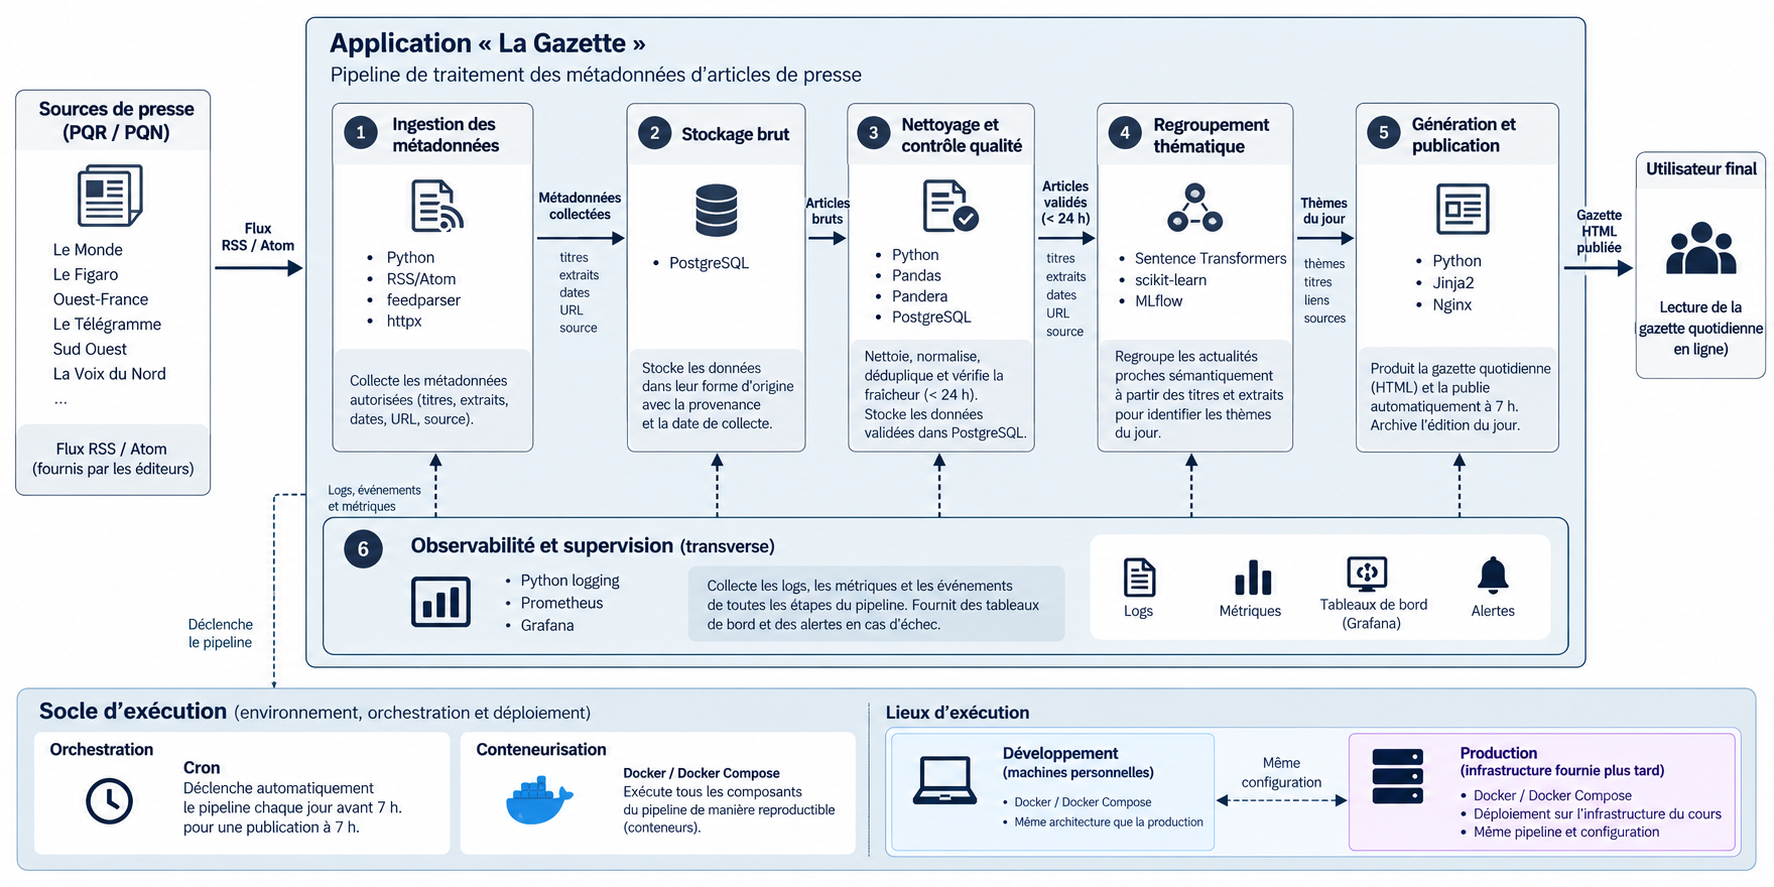
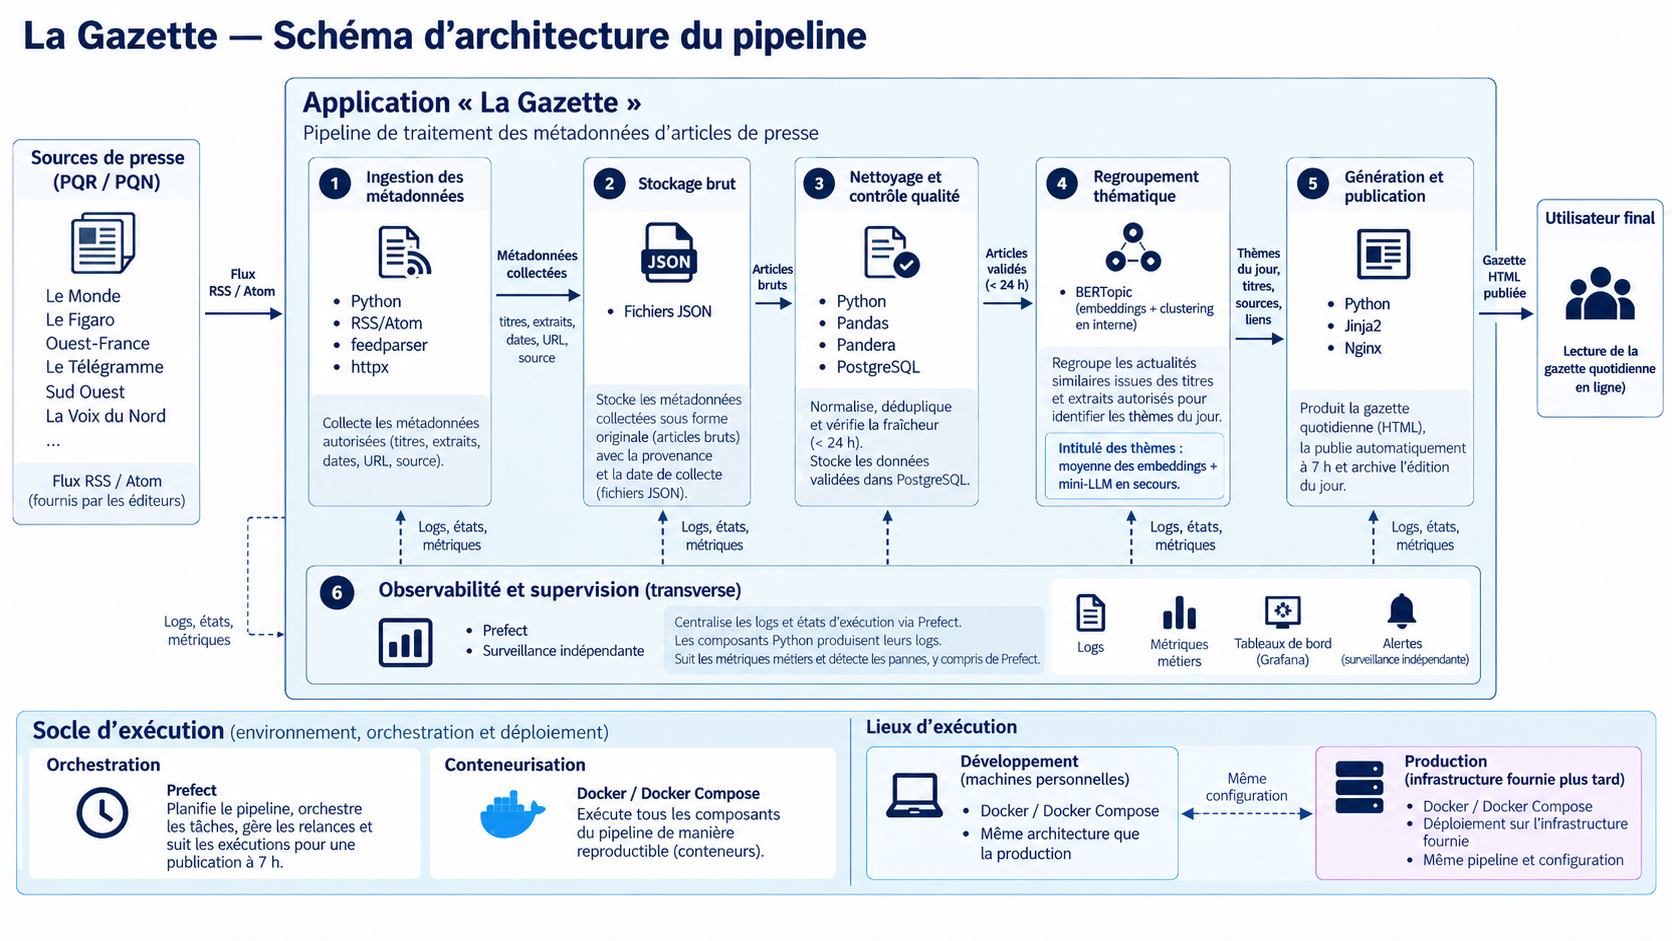
VF cadrage

diff --git a/docs/cadrage.md b/docs/cadrage.md
@@ -4,13 +4,15 @@ Notre architecture privilégie des technologies gratuites, reproductibles et mai
 
 | Domaine | Solution retenue | Justification et alternative |
 |---|---|---|
-| **Collecte** | Python, RSS/Atom, feedparser, httpx | Les flux RSS/Atom permettent de récupérer des métadonnées structurées sans collecter les articles intégraux, sous réserve des conditions des éditeurs. Les API officielles constituent une alternative, mais leur disponibilité et leurs restrictions varient selon les sources. |
-| **Orchestration** | Cron | Solution légère et suffisante pour planifier un pipeline quotidien. Prefect offre une meilleure gestion des dépendances, relances et états d'exécution, mais introduit une complexité supplémentaire. |
-| **Stockage** | PostgreSQL | Base relationnelle permettant de séparer les données brutes et nettoyées, de garantir leur intégrité et de gérer les accès concurrents. SQLite est plus simple à déployer, mais moins adapté à un stockage centralisé avec plusieurs services. |
-| **Regroupement thématique** | Sentence Transformers + scikit-learn | Les embeddings sémantiques associés à un algorithme de clustering permettent de rapprocher des actualités formulées différemment. TF-IDF associé à un clustering est plus léger et plus interprétable, mais moins performant pour certaines similarités sémantiques. |
-| **Supervision** | Logs Python, puis Prometheus et Grafana | Les logs facilitent le diagnostic. Prometheus et Grafana permettent de suivre les métriques, visualiser les exécutions et mettre en place des alertes. Une supervision limitée aux logs et scripts de vérification serait plus simple, mais moins complète. |
-| **Exécution et infrastructure** | Docker et Docker Compose | Permettent une exécution reproductible des services sur les machines de développement. Kubernetes apporte une orchestration plus avancée, mais serait disproportionné à ce stade. La nécessité d'un outil IaC comme OpenTofu sera étudiée selon l'infrastructure fournie. |
+| **Collecte** | Python, RSS/Atom, feedparser, httpx | Les flux RSS/Atom permettent de récupérer les métadonnées autorisées sans collecter les articles intégraux. Les API officielles constituent une alternative, mais leur disponibilité et leurs conditions d'accès varient selon les éditeurs. |
+| **Orchestration** | Prefect | Permet de planifier les exécutions quotidiennes, gérer les dépendances, les erreurs et les relances, tout en centralisant le suivi des tâches. Cron est plus léger, mais nécessite des développements supplémentaires pour obtenir un suivi équivalent. |
+| **Stockage** | JSON (brut) + PostgreSQL (propre) | Les fichiers JSON conservent les métadonnées collectées et leur provenance avant transformation. PostgreSQL stocke les articles validés, les thèmes et leurs associations, avec des contraintes d'intégrité. Une solution entièrement PostgreSQL était envisageable, mais moins simple pour archiver les données brutes dans leur structure d'origine. |
+| **Regroupement thématique** | BERTopic | Regroupe les articles à partir d'embeddings sémantiques et d'algorithmes de clustering intégrés. L'approche Sentence Transformers + scikit-learn permet davantage de personnalisation, mais nécessite d'assembler et de maintenir plusieurs composants. |
+| **Intitulés des thèmes** | Moyenne des embeddings, puis mini-LLM si nécessaire | La moyenne des vecteurs d'un groupe permet de sélectionner le titre existant le plus représentatif. Si le résultat est insuffisant, un petit LLM pourra générer un intitulé à partir des titres autorisés uniquement, sans exploiter le texte intégral des articles. |
+| **Supervision** | Prefect + surveillance indépendante | Prefect centralise les états d'exécution et les logs, et permet de suivre les métriques métiers produites par le pipeline (articles collectés, rejetés, thèmes générés, etc.). Une surveillance indépendante détectera les pannes de l'orchestrateur. Prometheus et Grafana constituent une alternative plus complète pour les métriques et tableaux de bord, mais nécessitent des services supplémentaires. |
+| **Exécution et infrastructure** | Docker et Docker Compose | Permettent une exécution reproductible des services sur les machines de développement. Kubernetes offre une orchestration de conteneurs plus avancée, mais serait disproportionné à ce stade. Un outil IaC comme OpenTofu sera étudié selon l'infrastructure de production fournie. |
 
-**Outils complémentaires prévus :** Pandas et Pandera pour le nettoyage et les contrôles qualité, MLflow pour le suivi des expérimentations ML, Jinja2 pour la génération HTML, Nginx pour la publication, pytest pour les tests et GitHub Actions pour l'intégration continue.
+**Outils complémentaires prévus :** Pandas et Pandera pour le nettoyage et les contrôles qualité, Jinja2 pour la génération HTML, Nginx pour la publication, pytest pour les tests et GitHub Actions pour l'intégration continue.
 
-Ces choix constituent une architecture prévisionnelle qui sera validée progressivement par les expérimentations et l'intégration des composants. Le pipeline devra notamment vérifier la fraîcheur des articles (moins de 24 h) et garantir une publication quotidienne à 7 h.
+Ces choix constituent une architecture prévisionnelle qui sera validée progressivement par les expérimentations et l'intégration des composants. Le pipeline devra vérifier la fraîcheur des articles (moins de 24 h), garantir une publication quotidienne à 7 h et assurer la traçabilité des traitements.
+
